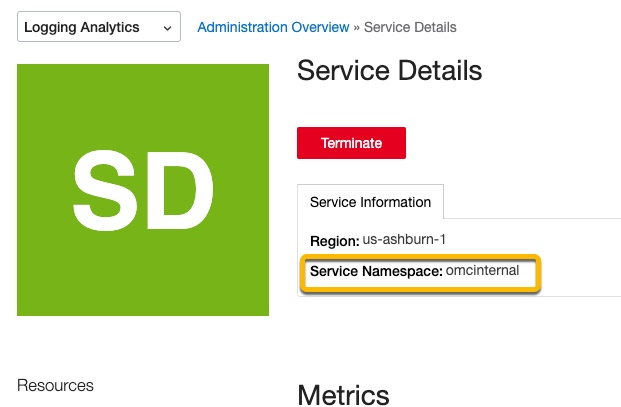
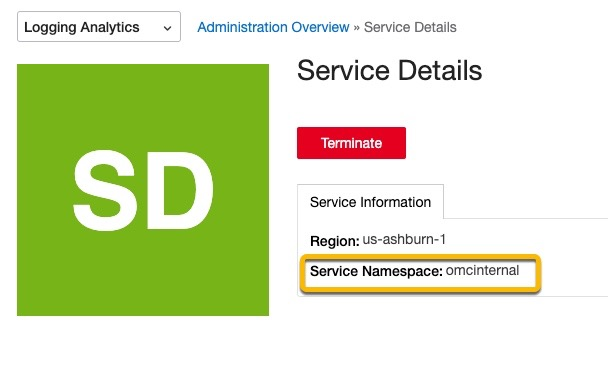
Changes to Prereqs

diff --git a/OKE-LAB/2-prereqs-helm/prereq.md b/OKE-LAB/2-prereqs-helm/prereq.md
@@ -5,14 +5,14 @@
 
 ## Introduction
 
-In this lab, you will onboard Logging Analytics (if you have not already done so previously), create a compartment (if you have not done sp previously) to isolate your resources, create a Logging Analytics log Group to define who has access to the logs and then gather information which will be needed later to configure the OKE HELM chart to enable logs to be sent to Logging Analytics.   
+In this lab, you will onboard Logging Analytics (if you have not already done so previously), create a compartment (if you have not done this previously) to isolate your resources, create a Logging Analytics log Group to define who has access to the logs and then gather information which will be needed later to configure the OKE HELM chart to enable logs to be sent to Logging Analytics.   
 
 #### Estimated time: ?  
 
 #### Objectives
 
-*   On boarding Logging Analytics ¿ not DONE?
-*   Create a Compartment ¿ not DONE
+*   On boarding Logging Analytics
+*   Create a Compartment
 *   Create a Logging Analytics Log Group
 *   Obtain and record information which will later be required in the values.yaml file, to send logs to Logging Analytics, specifically
     *   Logging Analytics Namespace
@@ -31,23 +31,29 @@ In this lab, you will onboard Logging Analytics (if you have not already done so
 If you are already using Logging Analytics then this task is not required.
 Please view this [video](https://youtu.be/fm76C3R4kPM "link title")  and follow the steps below.
 
-1. From the top level OCI console menu. Navigate to *Observability & Management* and click *Logging Analytics*.
+1. From the top level OCI console menu. Navigate to **Observability & Management** and click **Logging Analytics**.
 
 ![Image alt text](images/35.jpg "Image title")
 
-2. On the next screen. Click *Start Using Logging Analytics*
+2. On the next screen. Click **Start Using Logging Analytics**
 
 ![Image alt text](images/36.jpg "Image title")
 
-3. Review the policies that are automatically created. A log group called Default is created if it does not exist. After Logging Analytics service is enabled successfully, click *Take me to Log Explorer*.
+3. Review the policies that are automatically created. A log group called Default is created if it does not exist. After Logging Analytics service is enabled successfully, click **Take me to Log Explorer**.
 
  ![Image alt text](images/37.jpg "Image title")
-test
 
-## Task 2: Creating a Log Group.
+## Task 2: Create an OCI Compartment
+OCI [Compartments](https://docs.oracle.com/en-us/iaas/Content/Identity/Tasks/managingcompartments.htm#Working) are used for security isolation and access control. They accomplish that by providing a logical namespace where policies can be enforced, as folders in a file system.
+You can use an existing Compartment or create a new one as shown below.
+
+1.
+
+
+## Task 3: Creating a Log Group.
 [Log Groups](https://docs.oracle.com/en-us/iaas/logging-analytics/doc/logging-analytics1.html#LOGAN-GUID-9B74BCD1-48BE-4A80-97E5-1C6CE9AA5EC2/) can be used to define who as access to the logs.
 
-1. From the top level OCI console menu. *Navigate to Observability & Management* and click *Administration* under Logging Analytics.
+1. From the top level OCI console menu. **Navigate to Observability & Management** and click **Administration** under Logging Analytics.
 
 ![Image alt text](images/38.jpg "Image title")
 
@@ -55,25 +61,30 @@ test
 
 ![Image alt text](images/39.jpg "Image title")
 
-3. From the Log Groups page select *Create Log Group*
+3. From the Log Groups page select **Create Log Group**
 
 ![Image alt text](images/40.jpg "Image title")
 
-4. From the Create Log Groups Page. Ensure your compartment is selected and enter a name and optional description for the log group.
+4. From the Create Log Groups Page. Ensure your compartment is selected and enter a name and optional description for the log group. Then click **Create**.
 ````
 <copy>OKE-LA-LAB</copy>
 ````
 ![Image alt text](images/41.jpg "Image title")
 
-5. Once created the group should appear on the Log Groups page.
+5. Once created the group should appear on the Log Groups page. Click on it.
 
 ![Image alt text](images/42.jpg "Image title")
 
-## Task 1: Obtain Logging Analytics Namespace
+6. Locate the *OCID* for the group and click **Copy*. Paste and save the Group OCID to a file, on your locale system as you will need it later in the workshop.
 
-For logs to be sent to Logging Analytics the Logging Analyics Namespace is required. Here we will locate the Namespace and copy it to a safe location so that we can paste it into the values.yaml file later.  
+![Image alt text](images/26.jpg "Image title")
 
-1.  From the main menu click on Observability & Manageability, on the right under Logging Analytics click on Administration
+
+## Task 4: Obtain Logging Analytics Namespace
+
+For logs to be sent to Logging Analytics the *Logging Analyics Namespace* is required. In this task you will locate the Namespace and copy it to a safe location you will need it later in the workshop.
+
+1.  From the main menu click on **Observability & Manageability**, from the right hand side under Logging Analytics click on **Administration**
 
 
 ![Image alt text](images/20.jpg "Image title")
@@ -85,22 +96,22 @@ For logs to be sent to Logging Analytics the Logging Analyics Namespace is requi
 3.  Locate the Service Namespace. Copy the Service Namespace (in this case omcinternal) to a text file and save as you will need this later in the workshop
 
 ![Image alt text](images/22.jpg "Image title")   
-\*\*\*\*Above Image needs cropping \*\*\*\*  
 
 
-## Task 2. Obtain the Kubernetes Cluster name and Cluster ID
+
+## Task 5. Obtain the Kubernetes Cluster name and Cluster ID
 
 1.  From the Main Menu go to **Developers Service** and then click on **Kubernetes Cluster (OKE)** on the right.
 
 ![Image alt text](images/27.jpg "Image title")  
 
 
-2.  From the next screen under Name, locate your Cluster Name and click on it.
+2.  On the next screen under the *Name* column, locate your Cluster Name and click on it.
 
 
 ![Image alt text](images/29.jpg "Image title")
 
-3.  On the next screen locate the Cluster Name (in my case Ms-OKE-LA-LAB) and copy it to a text file. Also click **Copy** next to the Cluster ID and paste that value to a text file and save, as you will need these values later in the workshop.
+3.  On the next screen locate the Cluster Name (in my case it's MS-OKE-LA-LAB) and copy it to a text file you will need it later. Also click **Copy** next to the *Cluster ID* and paste that value to a text file and save, as you will need these values later in the workshop.
 
 ![Image alt text](images/31.jpg "Image title")
 
@@ -108,32 +119,7 @@ For logs to be sent to Logging Analytics the Logging Analyics Namespace is requi
 
 
 
-## Task 3: Create a Log Group**
 
-Why is the log group required?
-
-1.  From the OCI menu, select **Observability and Manageability,** then **Administration** from the right side under Logging Analytics.
-
-
-\*\*Need an image \*\*\*  
-
-2.  From the **Logging** **Analytics Administration Page**, under Resources click on **Log Groups**
-
-![Image alt text](images/23.jpg "Image title")
-
-3.  Click **Create Log Group** on the Log Groups page, ensuring you are in the correct compartment. (My my case it's SCP). Enter a Name of the Log Group n(in this case OKE-LA-LAB) and optional Description. Then click **Create**.
-
-![Image alt text](images/24.jpg "Image title")
-
-
-4.  After the Log Group has been created click on it.
-
-![Image alt text](images/25.jpg "Image title")
-
-
-5.  Locate the OCID for the group and click **Copy.** Paste and save the OCID to a test file as you will need it later.
-
-![Image alt text](images/26.jpg "Image title")
 You may now [proceed to the next lab](#next).
 
 

diff --git a/OKE-LAB/3-start-ingestion/ingest.md b/OKE-LAB/3-start-ingestion/ingest.md
@@ -183,14 +183,14 @@ TEST SUITE: None
 ## Task 6: Check the helm chart has been installed successfully
 
 
-Now check the helm chart has been successfully installed. Copy and paste the following.  
+1. Now check the helm chart has been successfully installed. Copy and paste the following.  
 ```
 <copy>
 $ helm history okelab
 </copy>
 ```
 
-The output should be similar. Look for **Install complete** 
+The output should be similar. Look for **Install complete**
 ```
 mahesh\_k\_s@cloudshell:helm-chart(us-ashburn-1)$ helm history okelab  
 The output should be similar to:  
